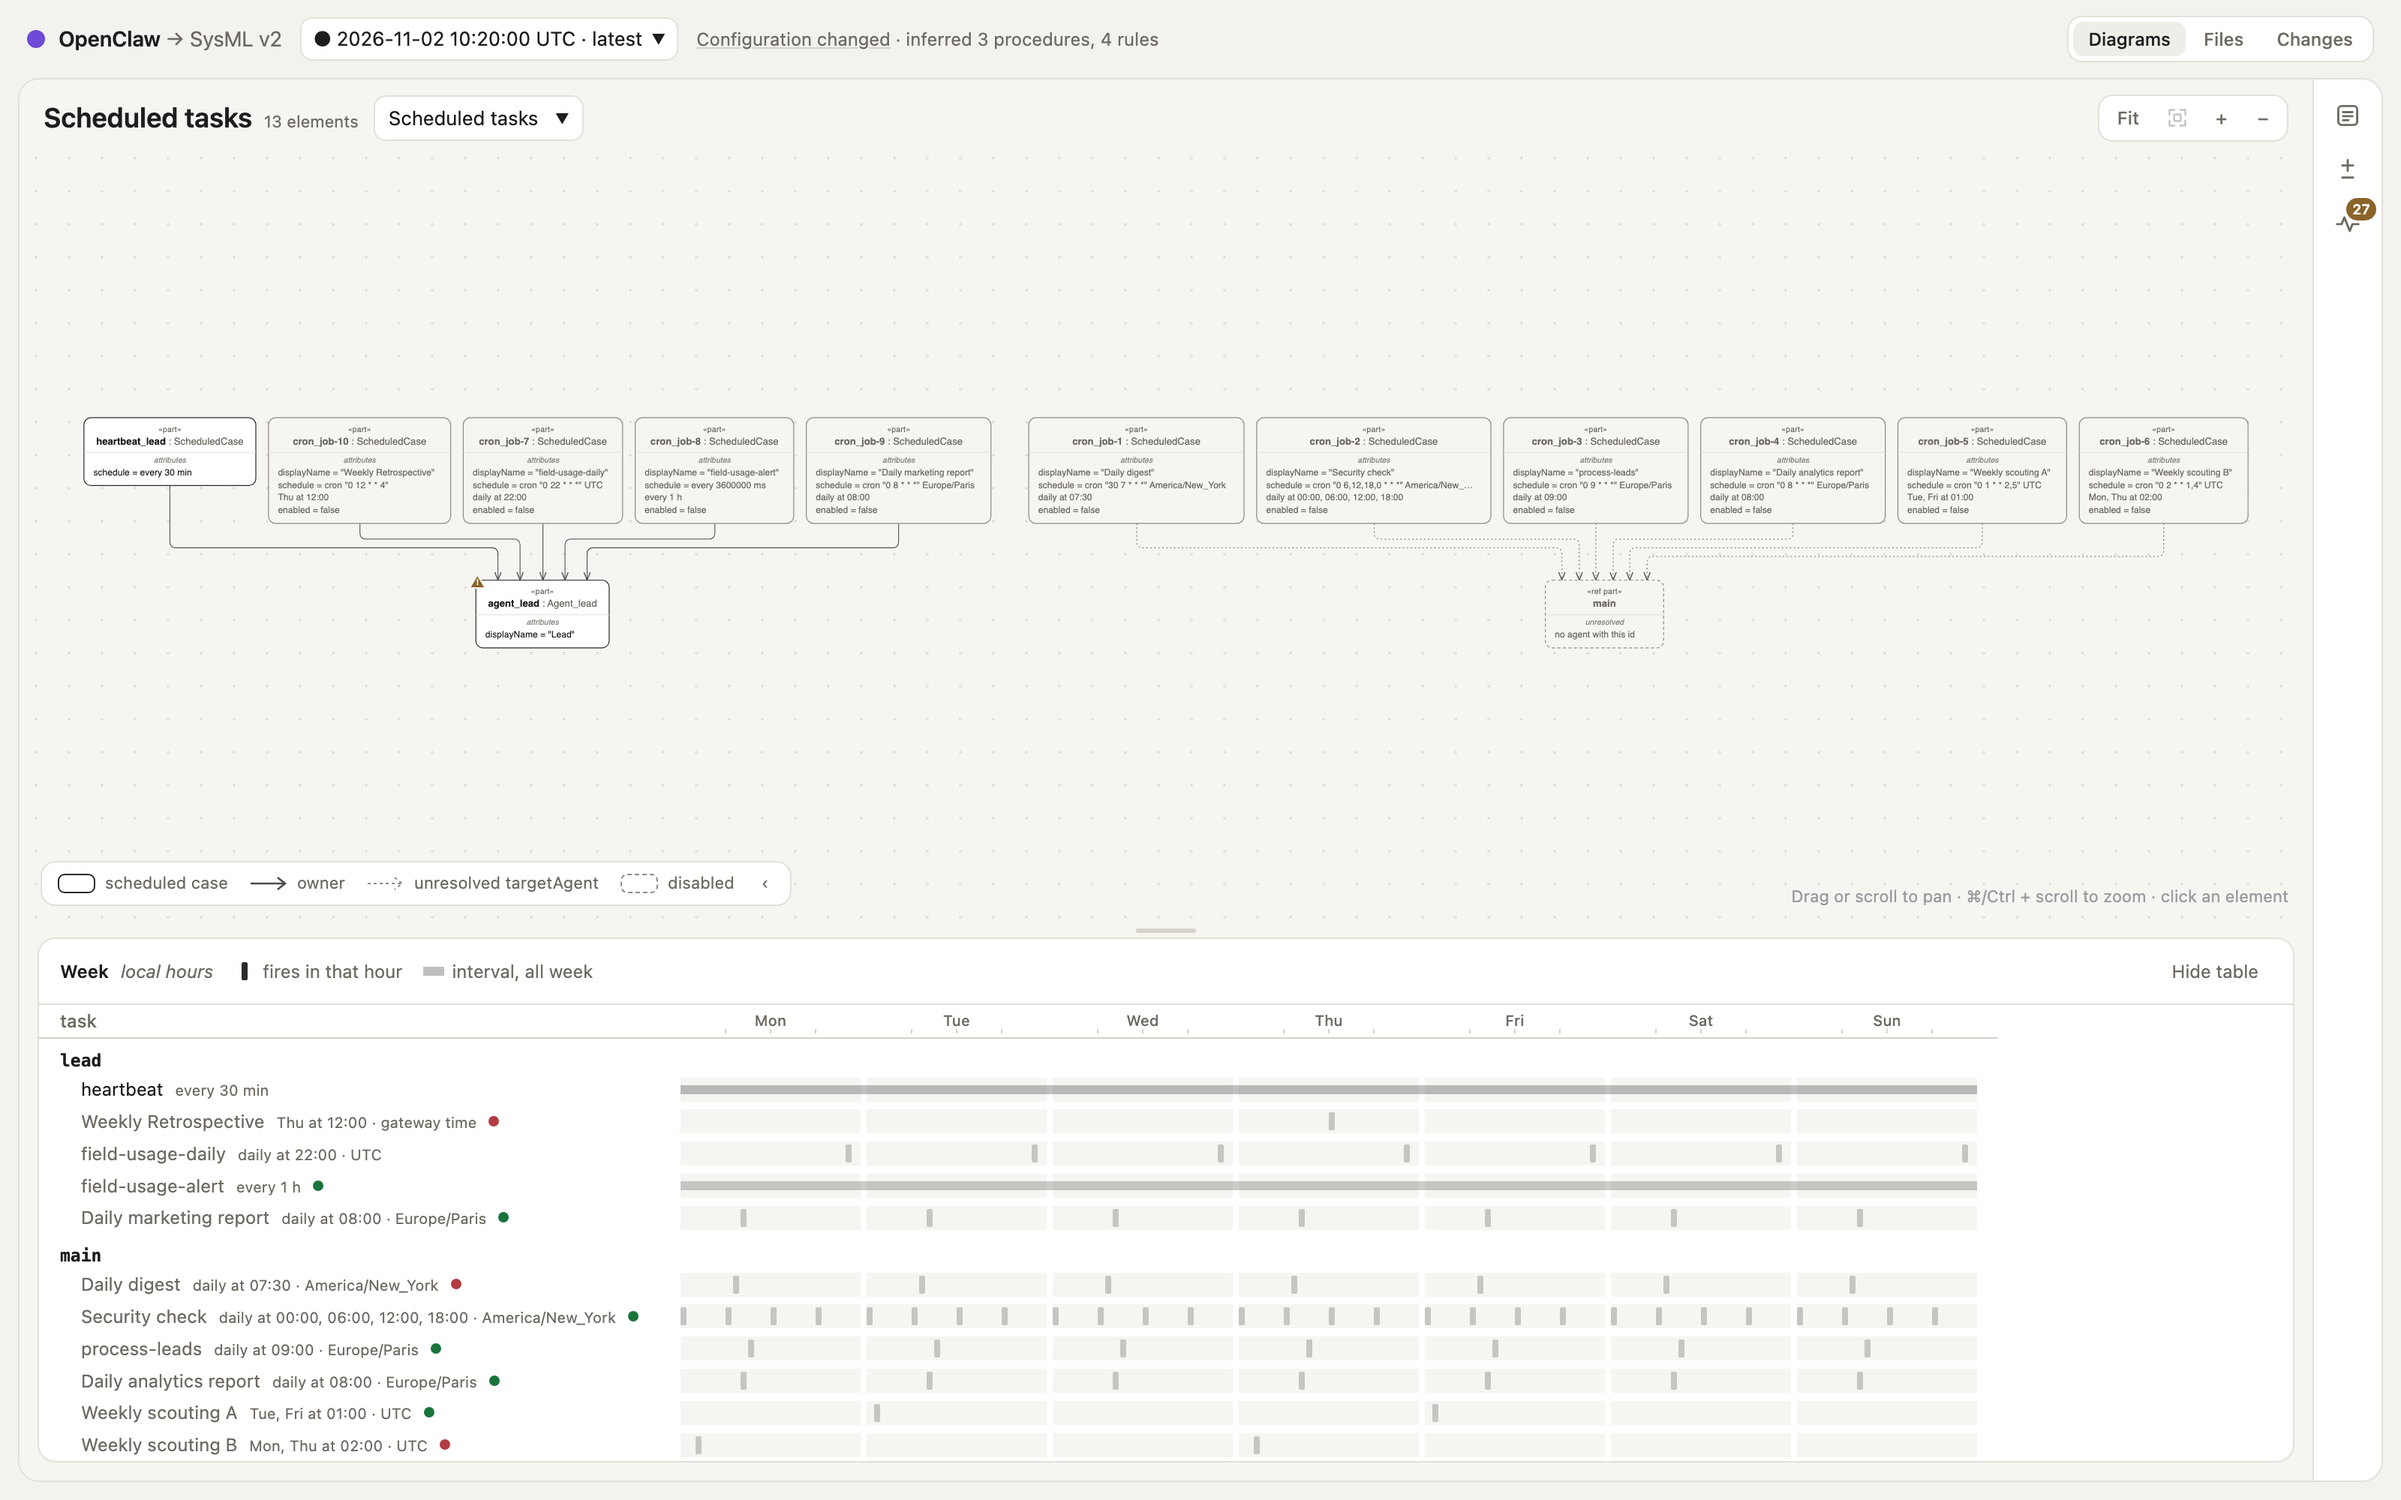
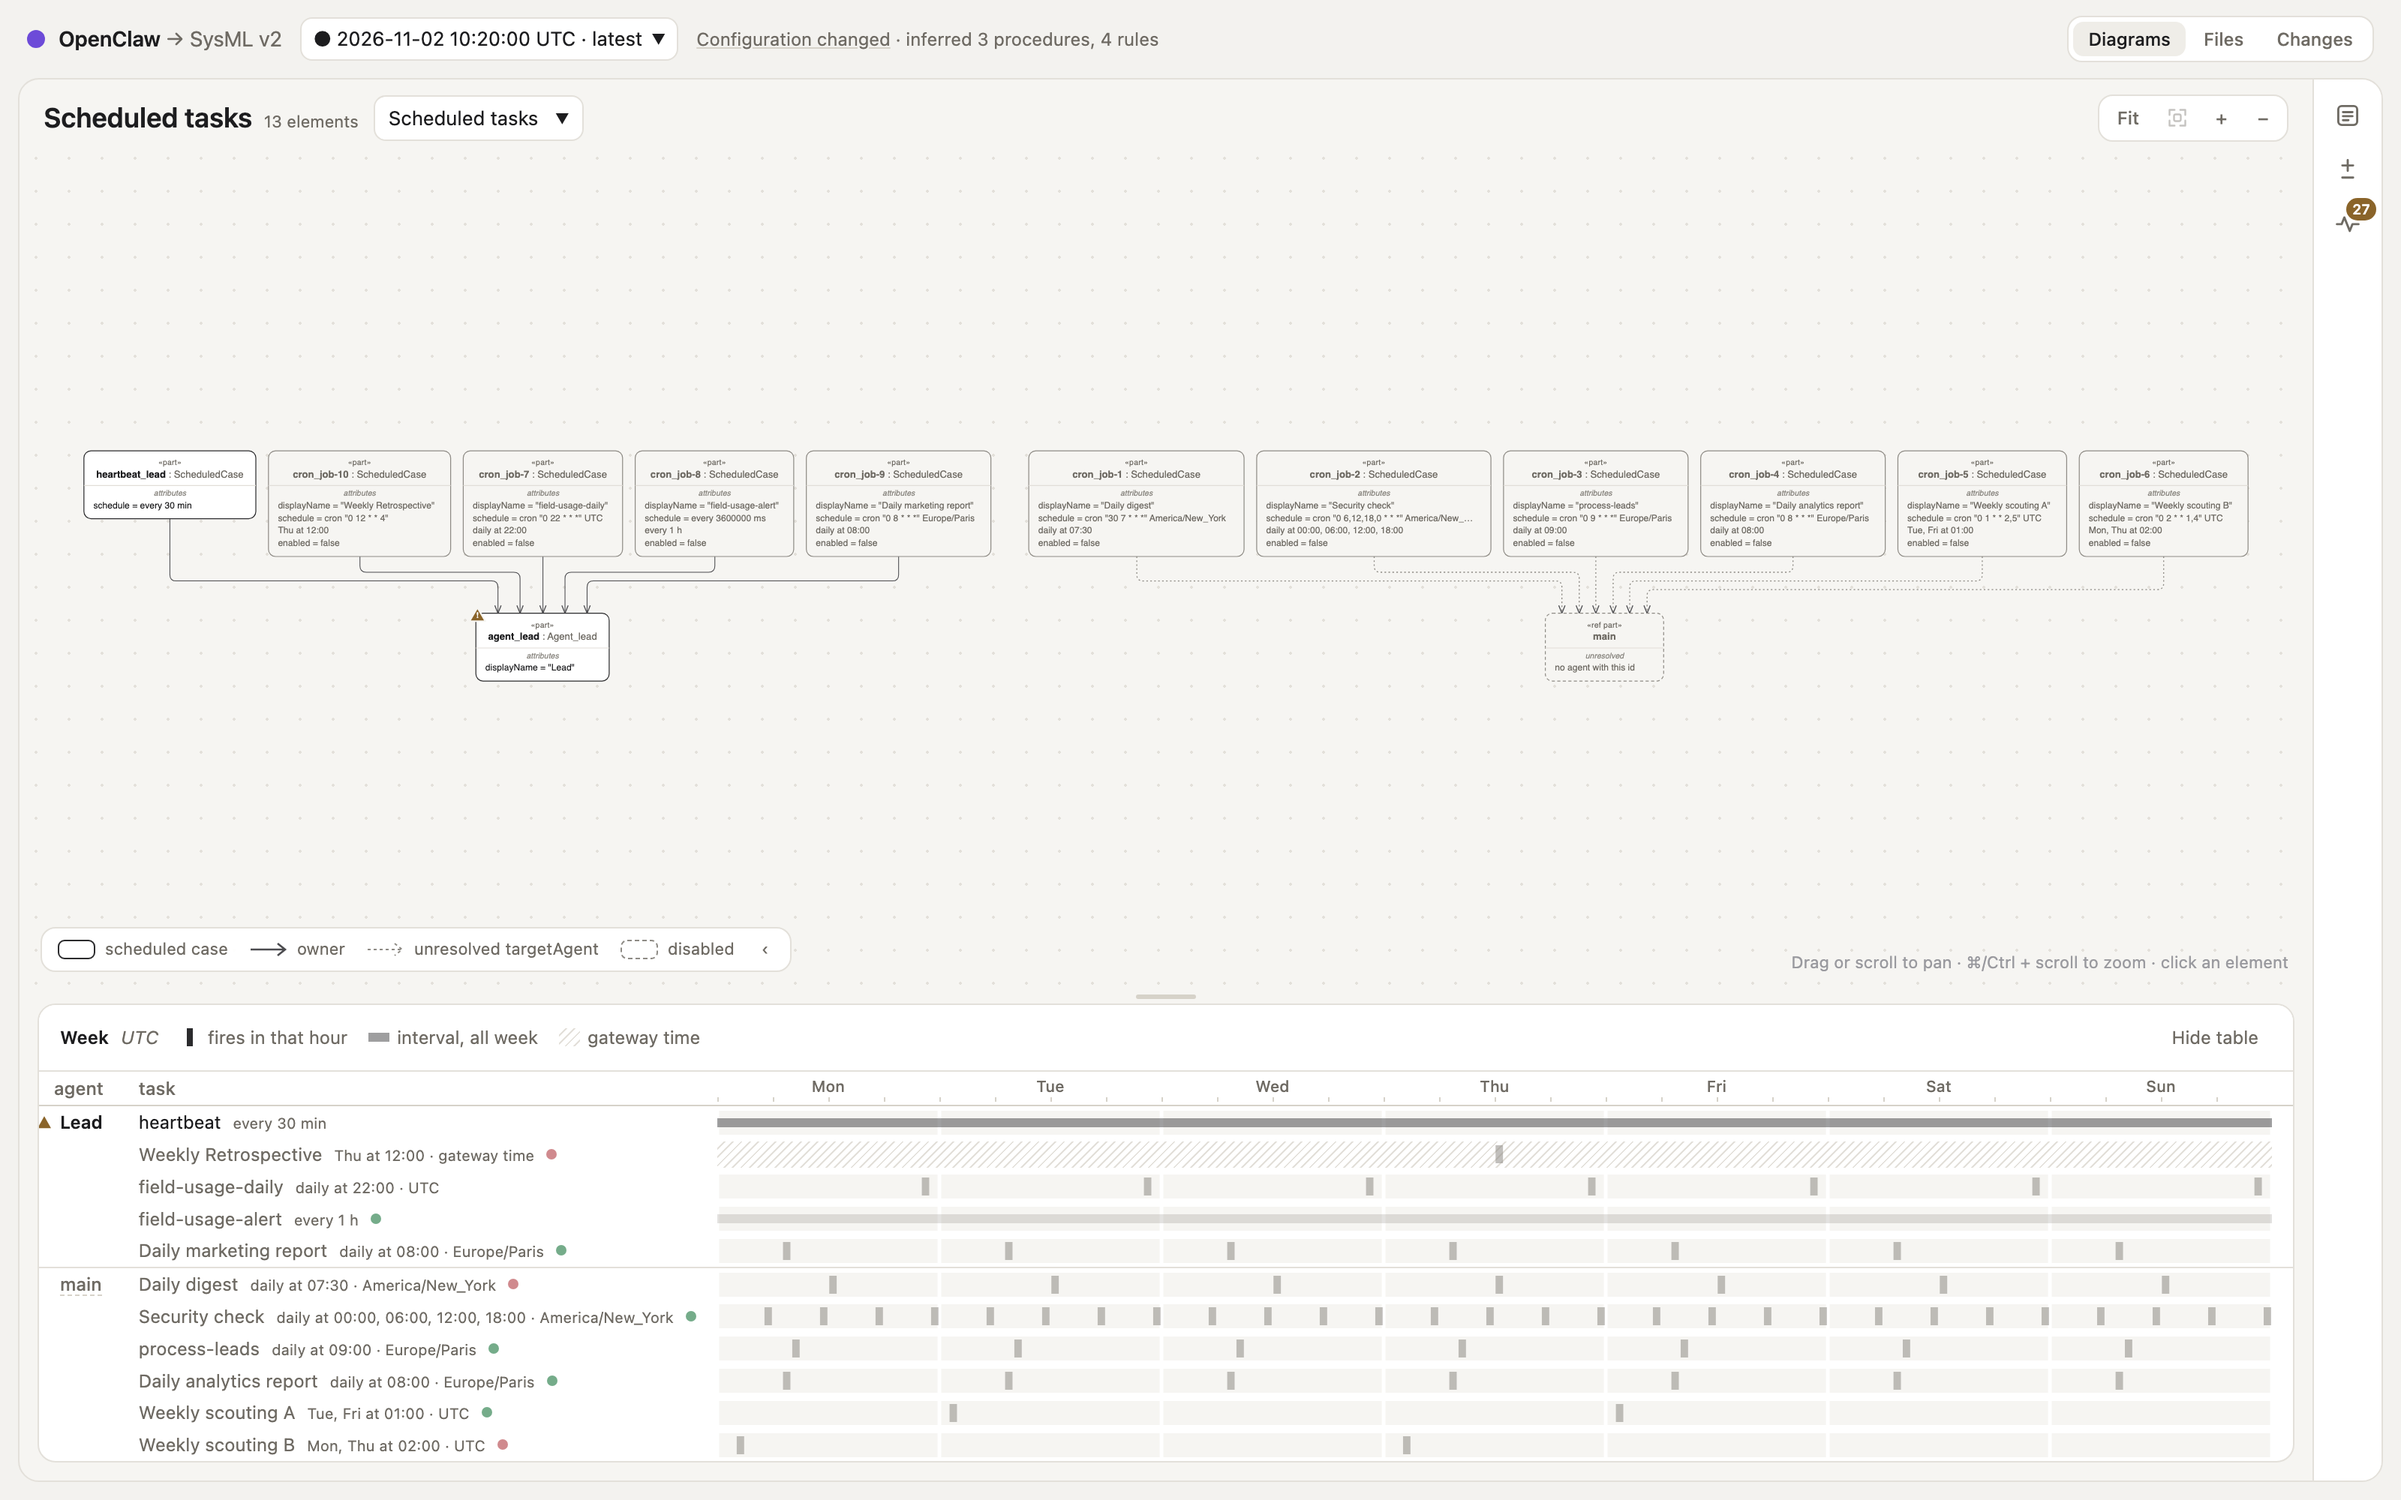
docs(viewer): describe the restored views and refresh the scheduled week

diff --git a/SPEC.md b/SPEC.md
@@ -789,8 +789,8 @@ version.
 | Overview        | The first view. A table, one row per agent: model (its fallbacks named), host or sandbox (`· elevated` when an active sandbox has elevated exec configured), tools by origin, bound channel accounts, scheduled tasks enabled, context and, with inference, procedures and rules; the counts behind each cell as `figures`; the instance's totals above, naming the declarations they rest on; links to the agent's other views.                                                   |
 | System          | Agent part usages with compartments (attributes, context, tools by origin and layer), channel accounts grouped by channel, `AgentBinding` connections; hook mappings (`ExternalTrigger`) in a group of their own, each with an edge to the agent it starts (a dashed reference when the agent is absent). The inspector states each agent's posture: where exec runs and, for host exec, its policy; network, workspace access, external binds and elevated for an active sandbox. |
 | Reach           | Agents with their posture and inputs, `DelegationRule` connections between them (one edge per pair, double-ended when both ways; self, `*` and unknown targets draw none), the hooks that start them, and the instance's messaging policy as a block. Absent when nothing links an agent to anything. It lays out on its own, since System puts every agent in its first layer.                                                                                                    |
-| Tools           | The `Tools` package as a SysML allocation matrix: catalog tools grouped by origin and by plugin or MCP provider, built-in tools by the capability groups the recorded OpenClaw version names, against the agents; each cell an agent's `ToolGrant`s (host, sandbox or both); each tool row's holder count (all, shared, one or none), declared but ungranted tools dashed; plugin and MCP rows state their profiles, OAuth and tool filters.                                       |
-| Scheduled tasks | Heartbeats and cron jobs as `ScheduledCase` parts with schedule and state, an owner edge to the agent they wake (an unknown target is a dashed reference), and the week in which each fires. A task states its model and delivery; its last run is runtime state: shown, never a change.                                                                                                                                                                                           |
+| Tools           | The `Tools` package as a SysML allocation matrix: catalog tools grouped by origin and by plugin or MCP provider, built-in tools by the capability groups the recorded OpenClaw version names, against the agents; each cell an agent's `ToolGrant`s (host, sandbox or both); a legend limited to the glyphs used; each tool row's holder count (all, shared, one or none), declared but ungranted tools dashed; plugin and MCP rows state their profiles, OAuth and tool filters.  |
+| Scheduled tasks | Heartbeats and cron jobs as `ScheduledCase` parts with schedule and state, an owner edge to the agent they wake (an unknown target is a dashed reference), and the week in which each fires. A task states its model and delivery; its last run and failures in a row are runtime state: shown, never a change.                                                                                                                                                                    |
 | Behaviour       | Per agent with inference: one `action def` frame per procedure (start, actions, decisions, hand-offs and escalations to agents or actors, done), listed with its trigger and step count, and its rules (`requirement def`s) as a table of kind, text and source; each rule carries the agent's authority (where exec runs, its ask policy, the outbound tools granted) and its concern.                                                                                            |
 
 - **Same data as the text.** Views are built from the version's own
@@ -818,10 +818,19 @@ version.
   agent runs). A table under a diagram can be resized.
 - **Week.** A cron schedule is placed in a 7 × 24 hour week when its day of
   month and month are `*` (or `?`) and its fields are numbers, ranges, steps,
-  lists or day names, with five fields or six (seconds first): hours are in its
-  own time zone, or the gateway host's when it has none. An interval under a day
-  is a band over the whole week, its start being unknown; one-shot, date-bound
-  and longer schedules are listed as not weekly.
+  lists or day names, with five fields or six (seconds first). Hours are placed
+  in UTC using the time zone's offset at the version's `createdAt` instant,
+  passed through the optional `at` argument of `diagramViews`; without it, hours
+  stay local. `WeekRow.offset` records minutes ahead of UTC, displayed in a
+  tooltip. A zone the runtime does not recognise, or the gateway host's zone
+  (not collected), leaves `offset` null and its local hours hatched. The agent
+  occupies a first column spanning its tasks; its cell selects the agent node.
+  The strip fills its column and disabled tasks fade. A task or agent cell
+  frames its node only when outside the visible canvas, without changing other
+  tables' selection behaviour. The table retains the shared 42% height limit and
+  can be resized. `delivery` and `errors` supply task and last-run tooltips. An
+  interval under a day is a band over the whole week, its start being unknown;
+  one-shot, date-bound and longer schedules are listed as not weekly.
 - **Changes.** Against the previous version, an element is added when its id is
   new and removed when it is gone; table rows, columns and cells count as
   elements, so a new grant is a new cell and marks its tool's row as changed. It
@@ -849,7 +858,8 @@ version.
 - **Checks and findings.** Each version has a `checks` state (`verified`,
   `not-run`, `failed`, `unrecorded`), its readable labels by element id, its
   findings grouped by severity, code and recovery, and, against the last older
-  version whose APE analysis completed, its new and resolved findings; see
+  version whose APE analysis completed, its new and resolved findings. A finding
+  whose text alone changed is neither new nor resolved; see
   [Diagnostics](docs/diagnostics.md#whether-the-checks-ran).
 - **Unreadable snapshots.** A version whose snapshot fails this viewer's schema
   check keeps its files and diffs, without diagrams.

diff --git a/README.md b/README.md
@@ -142,10 +142,14 @@ and its diagrams are laid out when the export runs. Pick a version, then a view.
   groups for the recorded version. Each cell is a grant, on the host, in the
   sandbox or both. Groups fold, and a filter or the number of agents that hold a
   tool (all, shared, one, none) narrows the tools; a group over a tool granted
-  on the host is marked.
+  on the host is marked. The legend lists only glyphs used by the matrix.
 - **Scheduled tasks**: cron jobs and heartbeats linked to the agent they wake,
-  above a week strip of the hours each one fires in, which selects its task; a
-  task shows its model, delivery and last run in the inspector.
+  as SysML parts with their compartments. Below, the week shows each task beside
+  its agent, with hours in UTC at the version's instant and the zone offset in a
+  tooltip. Hours in the gateway's uncollected time zone are hatched; disabled
+  tasks fade. A task or agent cell selects its node and frames it only when out
+  of view. Model, delivery and last-run status are available in tooltips and the
+  inspector.
 - **Behaviour**, with inference: an agent's proposed procedures as action flows,
   with decisions, hand-offs and escalations, and its rules in a requirements
   table with the lines they come from, read beside what the agent's

diff --git a/CHANGELOG.md b/CHANGELOG.md
@@ -59,6 +59,16 @@ and `versions.json` entries still read.
   filters by holders, a week strip selects its task, Reach and hook edges are
   drawn with a legend per view, and Behaviour lists its procedures and states
   its authority. A diagram is laid out for the canvas its table leaves.
+- **Viewer: the scheduled week in UTC.** The week uses each time zone's offset
+  at the version's instant (shown in a tooltip), hatches hours in the gateway's
+  uncollected time zone, stretches its strips to the column, and places each
+  agent beside its tasks. Disabled tasks fade; model, delivery and last-run
+  details are in tooltips. A task or agent cell selects its diagram node and
+  frames it only when out of view. The SysML parts, compartments, owner edges
+  and diagram layout stay unchanged, as does the table's height limit.
+- **Viewer: Tools legend.** Only glyphs used by the matrix are listed.
+- **Finding comparison.** A finding whose text alone changed is neither new nor
+  resolved.
 - **Viewer: less text, more access.** The gestures' hint goes after first use,
   the legend folds, and two notes became tooltips. Every button shows its focus
   ring, focus survives re-renders, diagram elements and matrix cells have full
